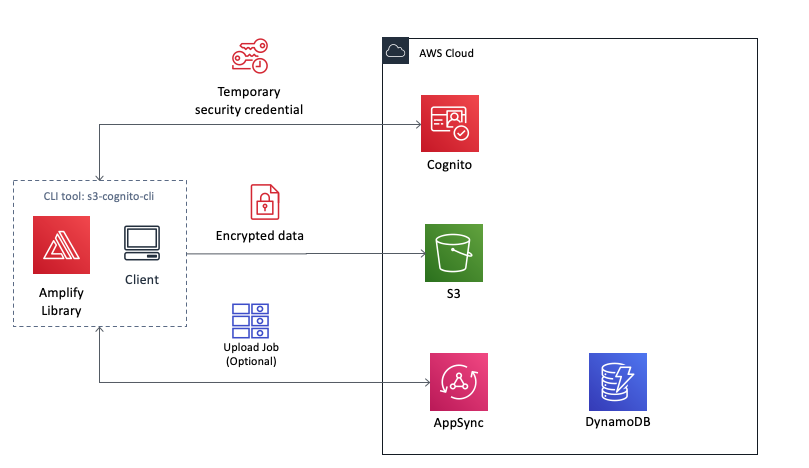
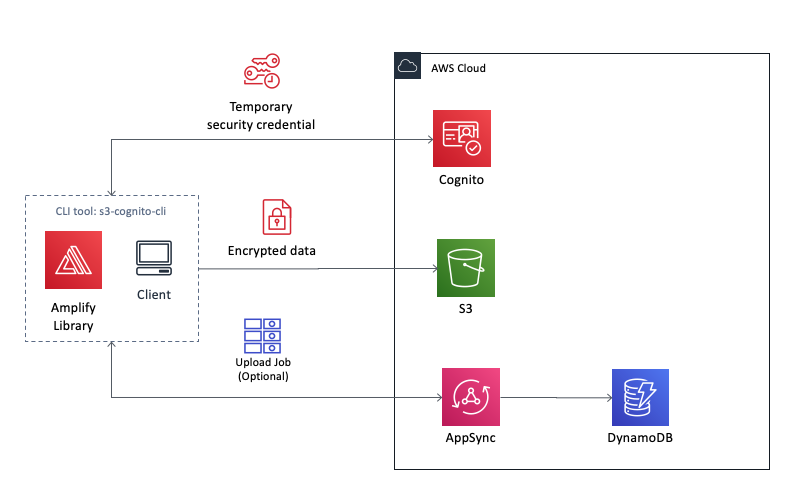
readme updated

Changed region(s): [[0.031, 0.0598, 0.9615, 0.9872], [0.2792, 0.6282, 0.3722, 0.7778]]

diff --git a/README.MD b/README.MD
@@ -8,7 +8,7 @@
 * index.js => entry point
 * configer.js => set the local configuration
 * uploader.js => s3 upload logic
-* saveUploadJob method in uploader => an additional example to save the upload object's meta data through AWS AppSync.
+* saveUploadJob method in uploader => an additional example to save the upload object's meta data through AWS AppSync. Check 3 about the option.
 
 ## 1. Creating S3 Bucket and Cognito User Pool with amplify cli
 ### Generate configuration and resources
@@ -22,21 +22,79 @@ $ npm install -g s3-cognito-cli
 ```
 
 ### 2-2. Profile Configuration - which S3 Bucket, which Cognito Userpool to use - only once for one S3 & Cognito environment. <aws-exports.json> is created in Step 1.
+**One time job, you only need to save a config once.**
 ```
 $ s3cognito config --set <aws-exports.json> --usr <user> --pwd <pwd>
 ```
 
 ### 2-3. SignUp a Cognito Userpool User - only once if only using this user
+**One time job, you only need to sign up once for a certain user.**
 ```
 $ s3cognito signup --usr <user> --pwd <pass> --email <email_address>
 ```
 
 ### 2-4. Confirm SignUp - only once for this user
+**One time job, you only need to confirm once.**
 ```
 $ s3cognito confirm --usr <user> --code <confirmation_code>
 ```
 
 ### 2-5. Upload your file
+**After the previous steps you are able to upload different files as many times as you want with this upload command.**
+**Under the hood the program will first sign in through Cognito User Pool with the Amplify library and then multi-upload the local file to the prepared S3 bucket.**
 ```
 $ s3cognito upload <your_file_relative_path>
 ```
+
+## 3. Save upload task and object meta data(Optional)
+**To save the original file name and the owner of the upload task it is recommended to keep a record.**
+**This saveUploadJob method uses AppSync as a facade of a DynamoDB table.**
+```
+const saveUploadJob = async ({objKey, fileKey, fileName, user}) => {
+	const API = Amplify.API;
+	const graphqlOperation = Amplify.graphqlOperation;
+
+	const input = {
+	    user,
+	    objKey,
+	    fileKey,
+	    fileName,
+	    status: 'Done',
+	    uploadedOn: new Date().toISOString()
+	};
+
+    const rtn = await API.graphql(graphqlOperation(createUploadJob, { input }))
+      .catch(e => {
+        throw e;
+      });
+
+  	return { fileKey, data: rtn };
+}
+```
+
+**It will create a record in DynamoDB with the following information:**
+
+* user: user name of the upload job's owner
+* objKey: the key of the uploaded file as an object on s3 including full path
+* fileKey: the s3 object's key without the full path
+* fileName: original file name
+* status: upload status
+* uploadedOn: job's timestamp
+
+```
+const createUploadJob = `mutation CreateUploadJob($input: CreateUploadJob!) {
+  createUploadJob(input: $input) {
+    user
+    objKey
+    fileKey
+    fileName
+    status
+    uploadedOn
+  }
+}
+`;
+```
+
+**This repository does not include the steps to create the AppSync API and the DynamoDB table.**
+**Please find this following official tutorial as reference.**
+[AppSync Tutorial: DynamoDB Resolvers ](https://docs.aws.amazon.com/appsync/latest/devguide/tutorial-dynamodb-resolvers.html)
